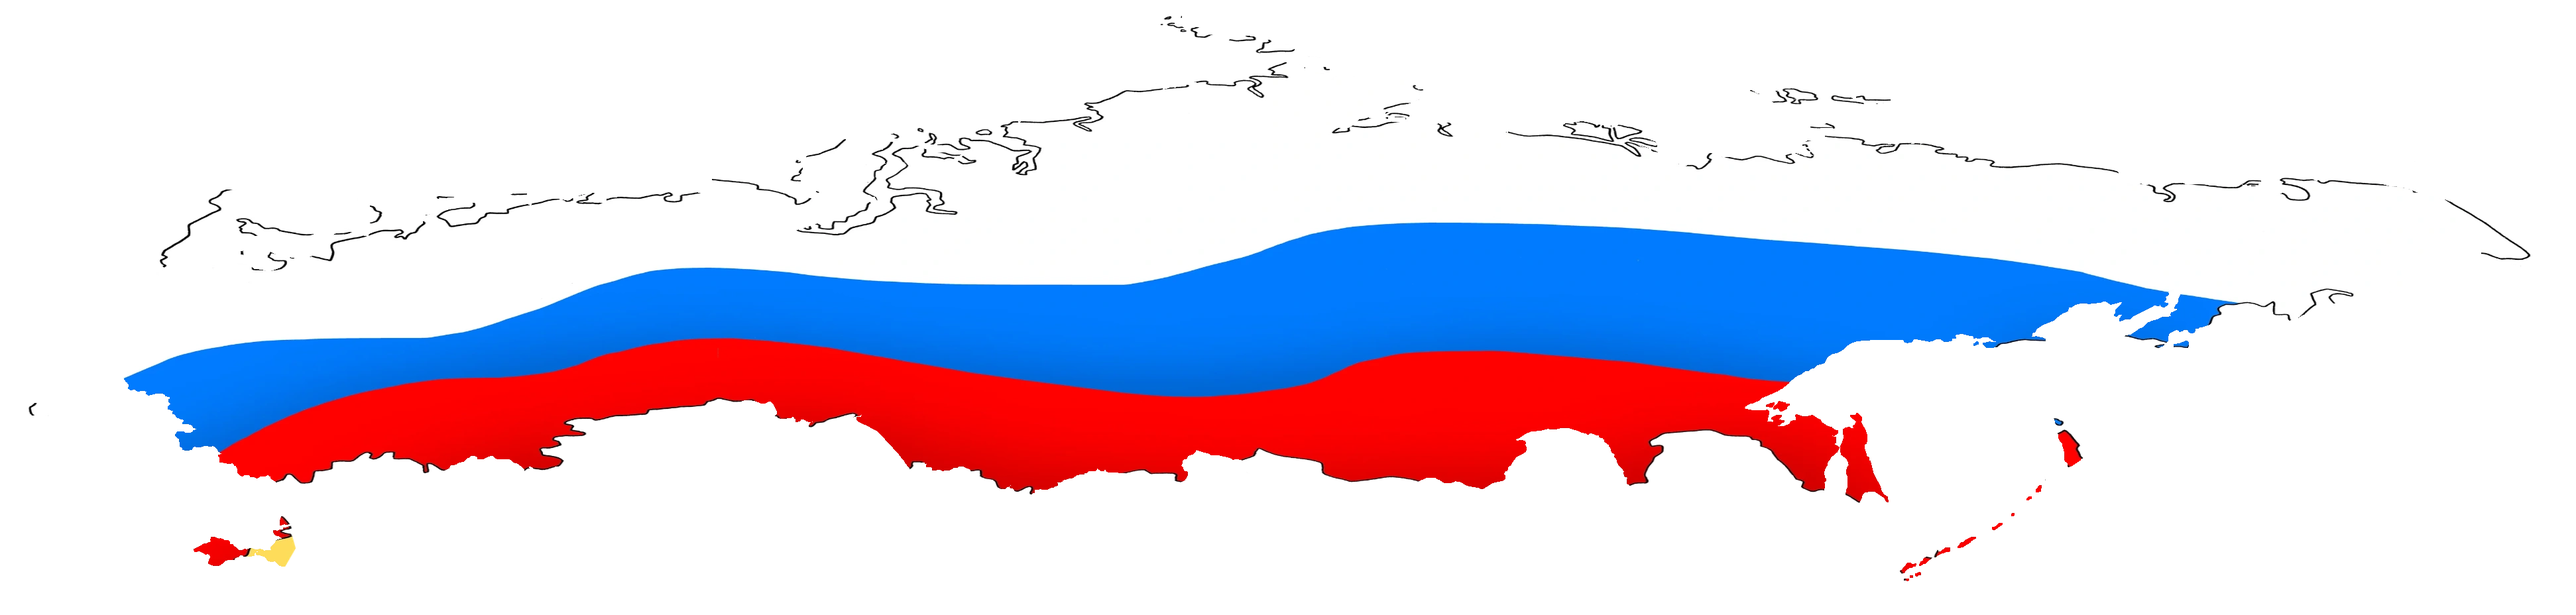
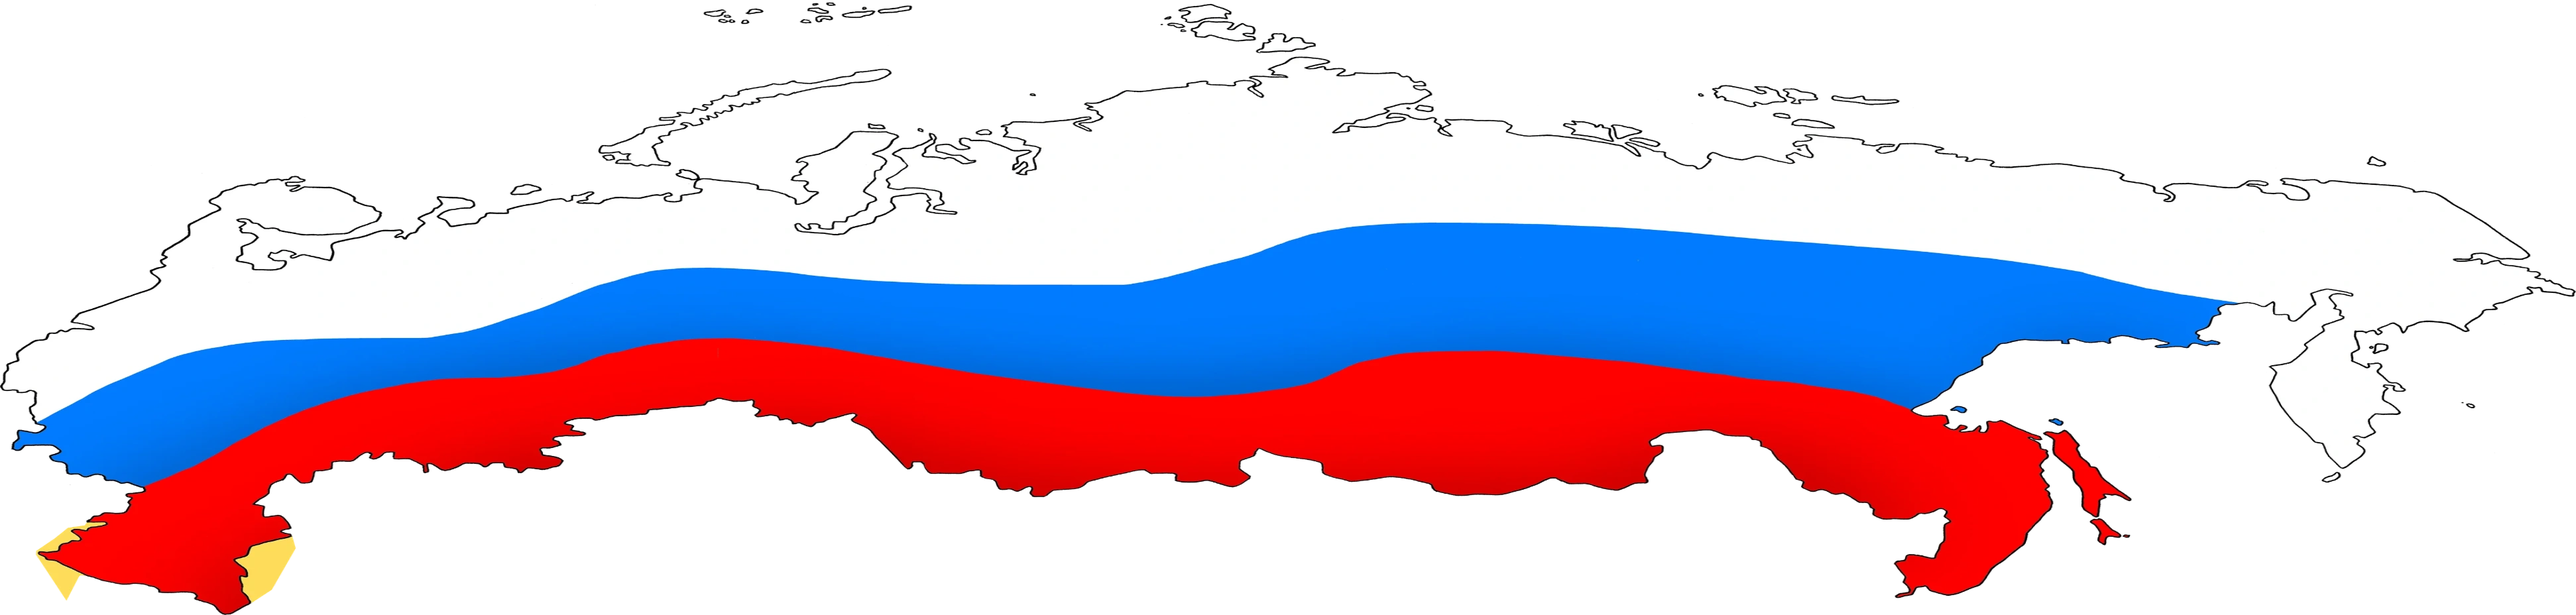
Disable default globe underfill and harden SOM/RUS/CAN rendering

diff --git a/game.js b/game.js
@@ -109,7 +109,7 @@ const GLOBE_OVERLAY_TARGET_WIDTH = 8192;
 const GLOBE_POLY_ALT_BASE = 0.002;
 const GLOBE_POLY_ALT_REVEALED = 0.00025;
 const GLOBE_POLY_ALT_ACTIVE = 0.003;
-const GLOBE_USE_UNDERFILL = true;
+const GLOBE_USE_UNDERFILL = URL_PARAMS.get('debug_underfill') === '1';
 const GLOBE_IGNORE_HOLES_FEATURE_KEYS = new Set(['SOM', 'RUS']);
 let globeResizeObserver = null;
 const globeMissingImageWarned = new Set();

diff --git a/tools/build_globe_warps.py b/tools/build_globe_warps.py
@@ -41,7 +41,7 @@ EDGE_SNAP_MAX_EDGE_LOSS = 0.15
 EDGE_ACCEPT_MIN_GAIN = 2.0
 EDGE_ACCEPT_MAX_IOU_DROP = 0.05
 EDGE_ACCEPT_MIN_IOU = 0.80
-FORCE_ACCEPT_FEATURE_KEYS = {"RUS", "BOL", "GRC", "NOR", "CAN"}
+FORCE_ACCEPT_FEATURE_KEYS = {"RUS", "BOL", "GRC", "NOR", "CAN", "SOM"}
 POST_EDGE_REPAIR_MIN_AREA = 20000
 POST_EDGE_REPAIR_MIN_EDGE_EXCESS = 4.0
 POST_EDGE_REPAIR_MAX_IOU_DROP = 0.02
@@ -51,7 +51,7 @@ POST_EDGE_REPAIR_FEATURE_KEYS = {"AUS", "BOL", "CAN"}
 USE_BOUNDARY_PULL = False
 USE_MASK_CLIP = False
 SKIP_EDGE_REPAIR_FEATURE_KEYS = {"BOL", "CAN"}
-FORCE_BASELINE_FEATURE_KEYS = {"BOL"}
+FORCE_BASELINE_FEATURE_KEYS = {"BOL", "RUS"}
 COUNTRY_COMPONENT_OVERRIDES = {
     # Archipelago-heavy countries: prioritize the main intended drawing mass,
     # not every tiny island polygon.
